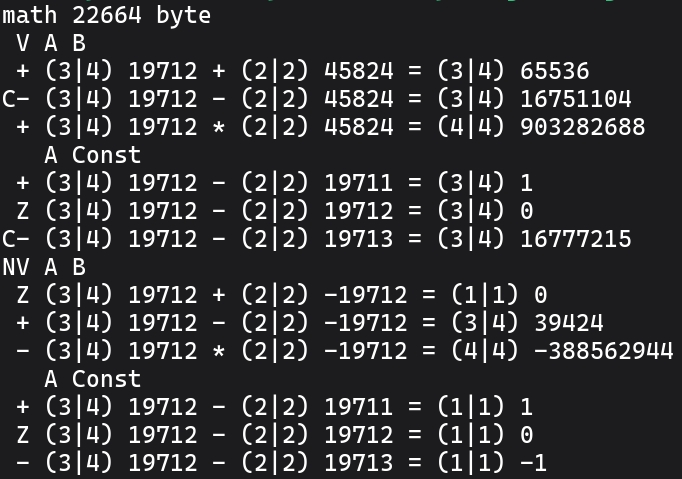
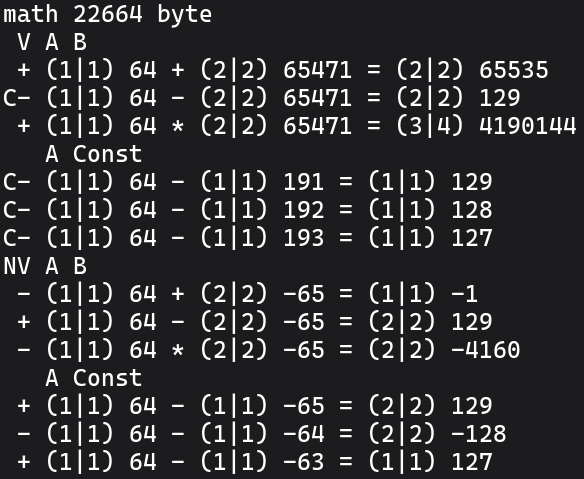
v15.8

diff --git a/main.c b/main.c
@@ -27,6 +27,6 @@ void Const(void) { an sb; anu l, i = 2; printf("   A Const\n"); Show('c'); sb = 
   Mat.B = Mat.b; l = lb; lb = Mat.lb; while(i--) { if (!++(*Mat.B) && lb) { (*(Mat.B + 1))++; } Show('-'); } Mat.B = sb; lb = l; }
 void Test(void) { printf("%c%c A B\n", Mat.Nim ? 'N':' ', Mat.V ? 'V':' '); Show('+'); Show('-'); Show('*'); /*Show('/');*/Const(); }
 
-int main(void) { anu v = 0,a[m],b[m],e[m],r[m+m]; Faddr((As)r, (As)e, (As)a, (As)b);
-  Fini(0,v); la = Fbvi(Mat.A, 64); lb = Fvi(Mat.B, -65); Test();
+int main(void) { anu v = 1,a[m],b[m],e[m],r[m+m]; Faddr((As)r, (As)e, (As)a, (As)b);
+  Fini(0,v); la = Fbvi(Mat.A, 64); lb = Fvi(Mat.B, -65,255); Test();
   Fset(1,v); la = Fmov(la, Mat.A); lb = Fmov(lb, Mat.B); Test(); return 0; }

diff --git a/README.md b/README.md
@@ -17,7 +17,7 @@
 P.s.: Блокировку убрали как только добавил сообщение о ней на главную страницу, длилась минут 20 как я заметил и принял меры чтоб сообщить об этом Вам. Это сообщение останется (20.09.2026 ~16.00 по местному +7) как память, так, что буду стараться вопреки не востребованности в России по данной области дабы остальной народ мог этим воспользоваться. Проанализируйте события с момента как я вернулся в эту сферу (конец января 2026 выложен Products готовый полностью затем занялся Fresh в начале февраля 2026), всё это время обновлялся код и было забавно видеть на open.net новости - даже компании серьёзные их как озарило - так, что у меня нет желания и времени следить за соблюдением GPLv3 из России, если заметите нарушение лицензии, то гарантировано взаимовыгодное сотрудничество.
 
 <div align="center">
-  <h1>Результат запуска v15.7</h1>
+  <h1>Результат запуска v15.8</h1>
   
   <picture>
     <source media="(prefers-color-scheme: dark)" srcset="Plus/psb.jpeg">
